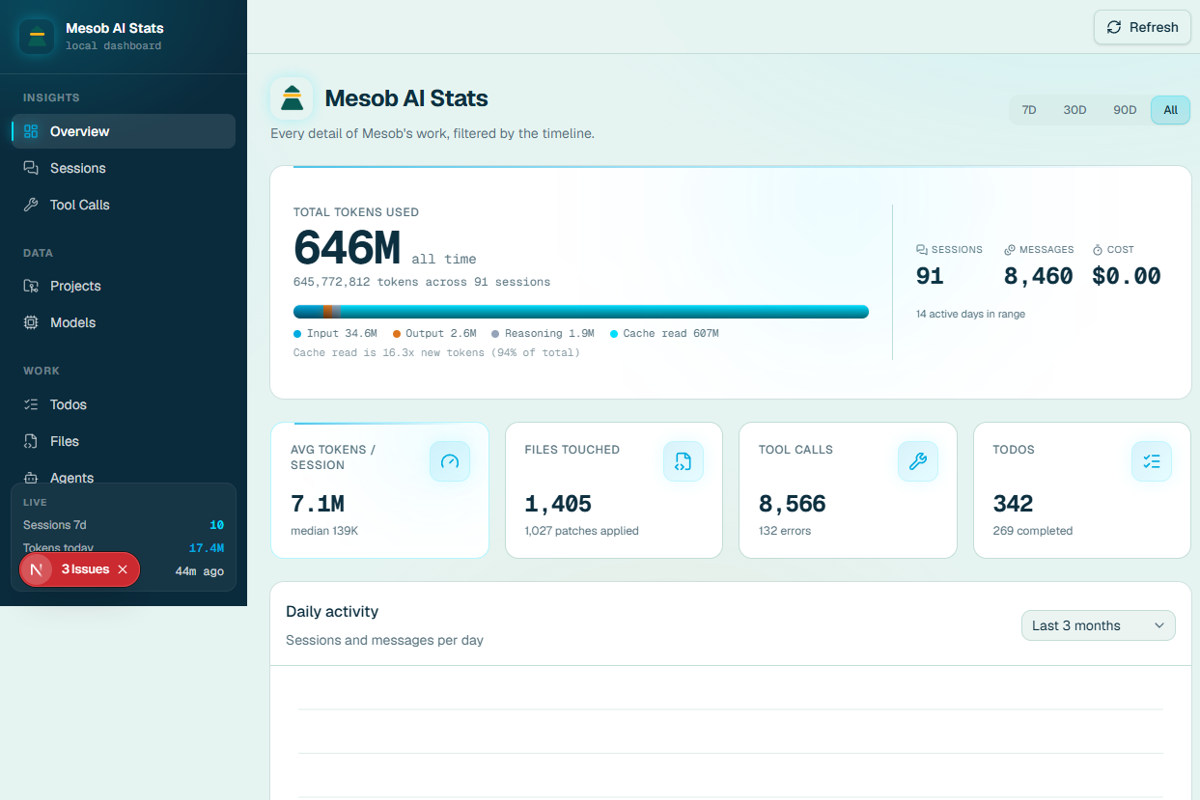
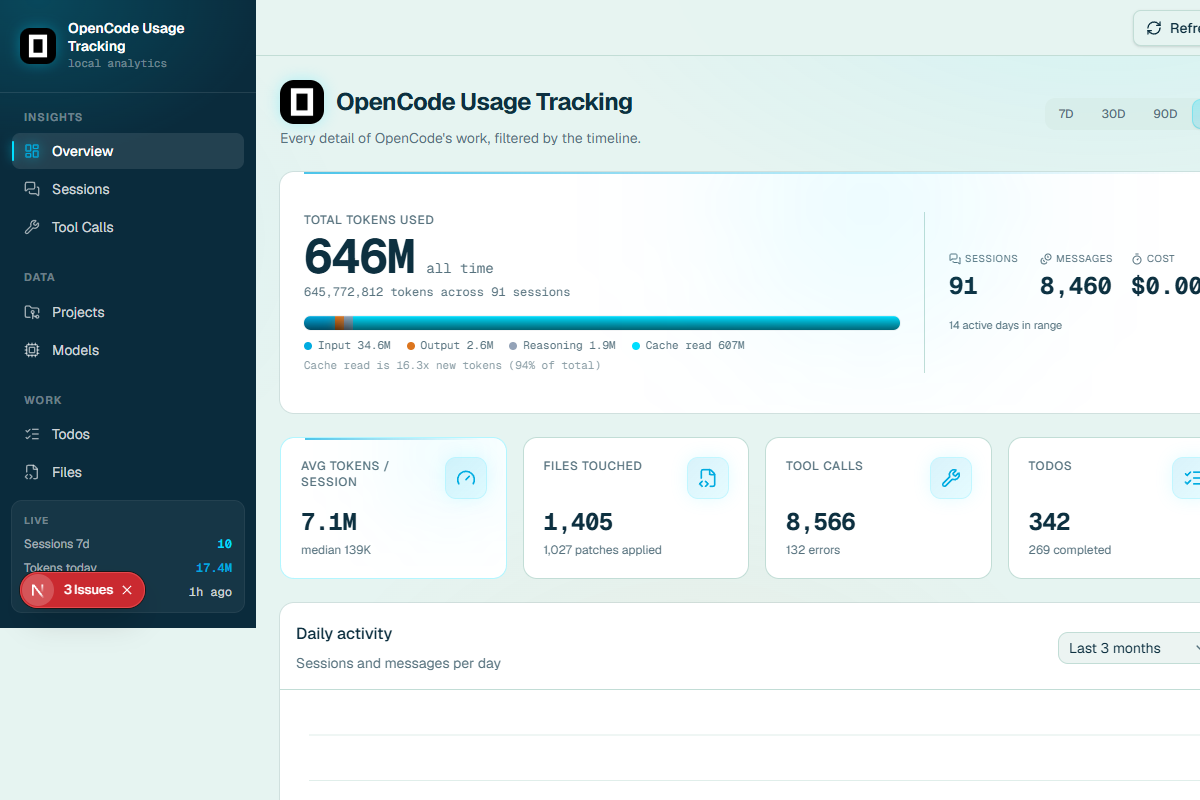
fix duplicate React keys in model components

Changed region(s): [[0.0, 0.0, 1.0, 1.0], [0.8633, 0.0938, 1.0, 0.1562], [0.925, 0.0, 1.0, 0.0625]]

diff --git a/src/components/sections/model-cards.tsx b/src/components/sections/model-cards.tsx
@@ -16,7 +16,7 @@ export function ModelCards({ models }: { models: ModelBreakdown[] }) {
       {models.map((m, i) => {
         const total = m.tokensInput + m.tokensOutput + m.tokensReasoning + m.tokensCacheRead;
         return (
-          <Card key={m.modelId} className="card-lift animate__animated animate__fadeInUp"
+          <Card key={`${m.providerId}-${m.modelId}`} className="card-lift animate__animated animate__fadeInUp"
             style={{ animationDelay: `${i * 60}ms` }}>
             <CardContent className="p-5 flex flex-col gap-4">
               <div className="flex items-start justify-between gap-3">

diff --git a/src/components/sections/model-breakdown.tsx b/src/components/sections/model-breakdown.tsx
@@ -23,7 +23,7 @@ export function ModelBreakdown({ models }: { models: ModelBreakdown[] }) {
         {models.map((m) => {
           const total = m.tokensInput + m.tokensOutput;
           return (
-            <div key={m.modelId}>
+            <div key={`${m.providerId}-${m.modelId}`}>
               <div className="flex items-center justify-between mb-1.5">
                 <span className="text-sm font-medium font-mono">{m.modelId}</span>
                 <span className="text-xs text-muted-foreground font-mono">
